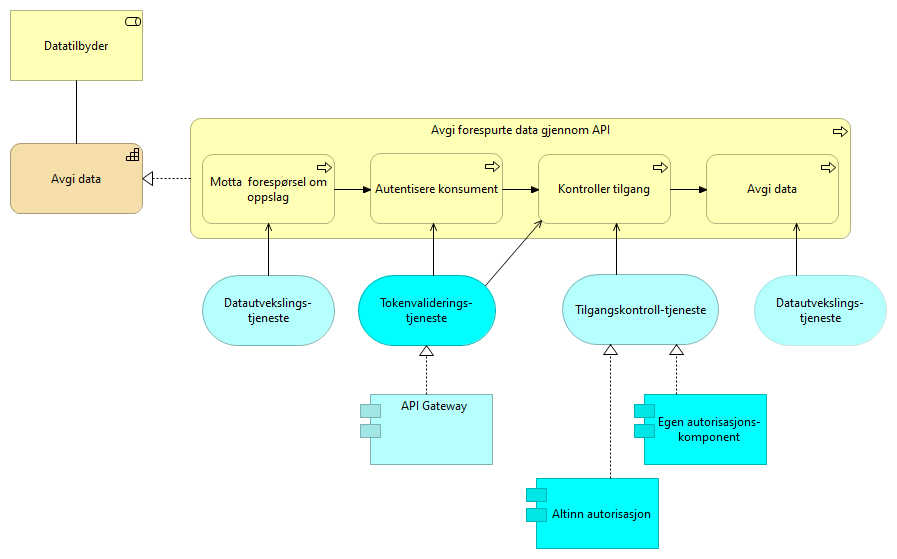
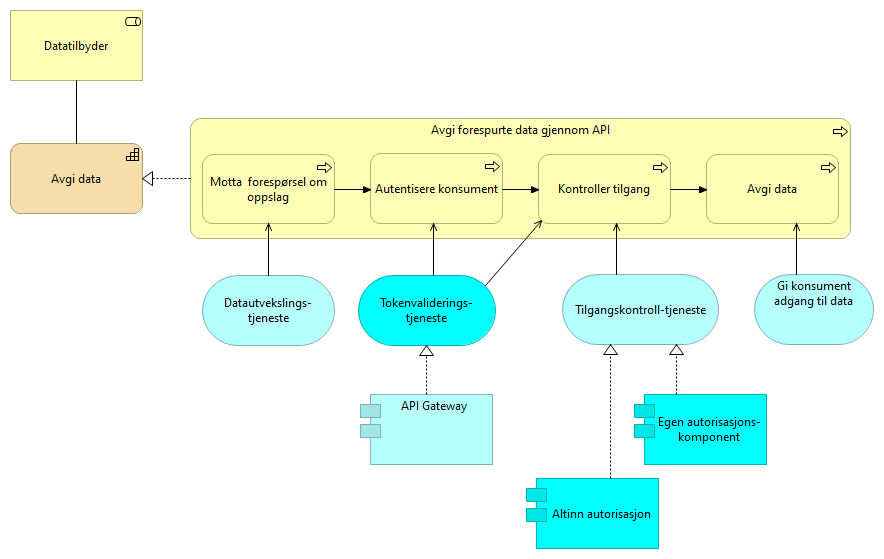
Dev

diff --git a/unit-ra/main/unit-ra-datadeling-datautveksling/Innhente data - løsningsmønster UHF.var.1.html b/unit-ra/main/unit-ra-datadeling-datautveksling/Innhente data - løsningsmønster UHF.var.1.html
@@ -187,12 +187,6 @@ Gå tilbake til standardvisning ved å klikke 'tilbake' (eller lukk dette vindue
 <td class="tableblock halign-left valign-top"><div class="content"></div></td>
 </tr>
 <tr>
-<td class="tableblock halign-left valign-top"><p class="tableblock">Datautvekslings-tjeneste</p></td>
-<td class="tableblock halign-left valign-top"><div class="content"><div class="paragraph">
-<p>Tjeneste for utveksling av data over aktuell transportprotokoll, f.eks, gjennom asynkrone medlinger eller synkrone API-oppslag.</p>
-</div></div></td>
-</tr>
-<tr>
 <td class="tableblock halign-left valign-top"><p class="tableblock">Samtykkeregistererings-tjeneste</p></td>
 <td class="tableblock halign-left valign-top"><div class="content"><div class="paragraph">
 <p>Tjeneste for å innhente samtykke fra den registrert som dataene gjelder. Dette kan være en person eller en virksomhet.</p>
@@ -283,6 +277,12 @@ brukt til å realisere autorisasjonspolicy for tilgang og roller.</p>
 </div></div></td>
 </tr>
 <tr>
+<td class="tableblock halign-left valign-top"><p class="tableblock">Gi konsument adgang til data</p></td>
+<td class="tableblock halign-left valign-top"><div class="content"><div class="paragraph">
+<p>Tjeneste for å gi datakonsument adgang til data. Tjenesten kan realiseres gjennom utveksling av data over aktuell transportprotokoll, f.eks, gjennom asynkrone medlinger eller synkrone API-oppslag. Tjenesten kan også realiseres ved å gi konsumenten adgang til data er de ligger, f.eks, innen forskning for analyse av store datamengder.</p>
+</div></div></td>
+</tr>
+<tr>
 <td class="tableblock halign-left valign-top"><p class="tableblock">Nasjonal Infrastruktur</p></td>
 <td class="tableblock halign-left valign-top"><div class="content"></div></td>
 </tr>
@@ -304,9 +304,9 @@ virksomheter, maskin til maskin. Dette gir teknisk og organisatorisk samhandling
 </div></div></td>
 </tr>
 <tr>
-<td class="tableblock halign-left valign-top"><p class="tableblock">Innhente data</p></td>
+<td class="tableblock halign-left valign-top"><p class="tableblock">Aksessere data</p></td>
 <td class="tableblock halign-left valign-top"><div class="content"><div class="paragraph">
-<p>Evnen til å innhente data fra en annen aktør.</p>
+<p>Evnen til å aksessere data fra en annen aktør. Evnen kan realiseres enten som utveksling av data, eller gjennom å kunne aksessere data der det ligger.</p>
 </div></div></td>
 </tr>
 <tr>

diff --git a/unit-ra/main/index.html b/unit-ra/main/index.html
@@ -156,11 +156,11 @@ Denne referansearkitekturen vil danne grunnlag for
 videreutvikling av Datadelingstjenesten - UH:IntArk i fase 2.
 Mange element i målbildet kan med fordel rulles ut så tidlig som mulig, for eksempel tiltak rettet mot forbedret informasjonsforvaltning og orden i eget hus.
 Arbeidsgruppene har i sitt arbeid tatt utgangspunkt i den nasjonale <a href="https://www.digdir.no/datadeling/nasjonal-verktoykasse-deling-av-data/2243">Verktøykassen for deling av data</a> samt <a href="https://nasjonal-arkitektur.github.io/architecture-repository/data-exchange-ra/book-data-exchange-ra.html">Referansearkitektur for datautveksling</a> og tilpasset
-denne til UHF.</p>
+denne til Høyere utdanning og forskning.</p>
 </div>
 <div class="paragraph">
 <p>Referansearkitekturen beskrevet her vil inngå i
-referansearkitekturen for Kunnskapssektorens datafellesskap (KUDAF, en
+referansearkitekturen for <a href="https://kunnskapsdata.no">Kunnskapssektorens datafellesskap</a> (KUDAF, en
 infrastruktur for deling av data til sekundær- og viderebruk fra hele
 KDs sektor), og arbeidet er koordinert med dette tiltaket.</p>
 </div>

diff --git a/unit-ra/main/unit-ra-datadeling-datautveksling/Avgi data - løsningsmønster UHF.var.1.html b/unit-ra/main/unit-ra-datadeling-datautveksling/Avgi data - løsningsmønster UHF.var.1.html
@@ -309,6 +309,12 @@ samler data om bruken av API-er (logging).</p>
 </ul>
 </div></div></td>
 </tr>
+<tr>
+<td class="tableblock halign-left valign-top"><p class="tableblock">Gi konsument adgang til data</p></td>
+<td class="tableblock halign-left valign-top"><div class="content"><div class="paragraph">
+<p>Tjeneste for å gi datakonsument adgang til data. Tjenesten kan realiseres gjennom utveksling av data over aktuell transportprotokoll, f.eks, gjennom asynkrone medlinger eller synkrone API-oppslag. Tjenesten kan også realiseres ved å gi konsumenten adgang til data er de ligger, f.eks, innen forskning for analyse av store datamengder.</p>
+</div></div></td>
+</tr>
 </tbody>
 </table>
 <div class="sidebarblock">

diff --git a/unit-ra/main/unit-ra-datadeling-datautveksling/eOppslag Verdistrøm med kapabiliteter for tilbyder og konsument - UHF  .var.1.html b/unit-ra/main/unit-ra-datadeling-datautveksling/eOppslag Verdistrøm med kapabiliteter for tilbyder og konsument - UHF  .var.1.html
@@ -210,9 +210,9 @@ Gå tilbake til standardvisning ved å klikke 'tilbake' (eller lukk dette vindue
 </div></div></td>
 </tr>
 <tr>
-<td class="tableblock halign-left valign-top"><p class="tableblock">Innhente data</p></td>
+<td class="tableblock halign-left valign-top"><p class="tableblock">Aksessere data</p></td>
 <td class="tableblock halign-left valign-top"><div class="content"><div class="paragraph">
-<p>Evnen til å innhente data fra en annen aktør.</p>
+<p>Evnen til å aksessere data fra en annen aktør. Evnen kan realiseres enten som utveksling av data, eller gjennom å kunne aksessere data der det ligger.</p>
 </div></div></td>
 </tr>
 <tr>

diff --git a/unit-ra/main/Bøker/Referansearkitektur for deling av data i høyere utdanning og forsking.html b/unit-ra/main/Bøker/Referansearkitektur for deling av data i høyere utdanning og forsking.html
@@ -155,7 +155,7 @@
 </div>
 <div class="listingblock">
 <div class="content">
-<pre>Mon Feb 28 2022 13:29:25 GMT+0100 (CET)</pre>
+<pre>Mon Feb 28 2022 14:33:02 GMT+0100 (CET)</pre>
 </div>
 </div>
 </div>
